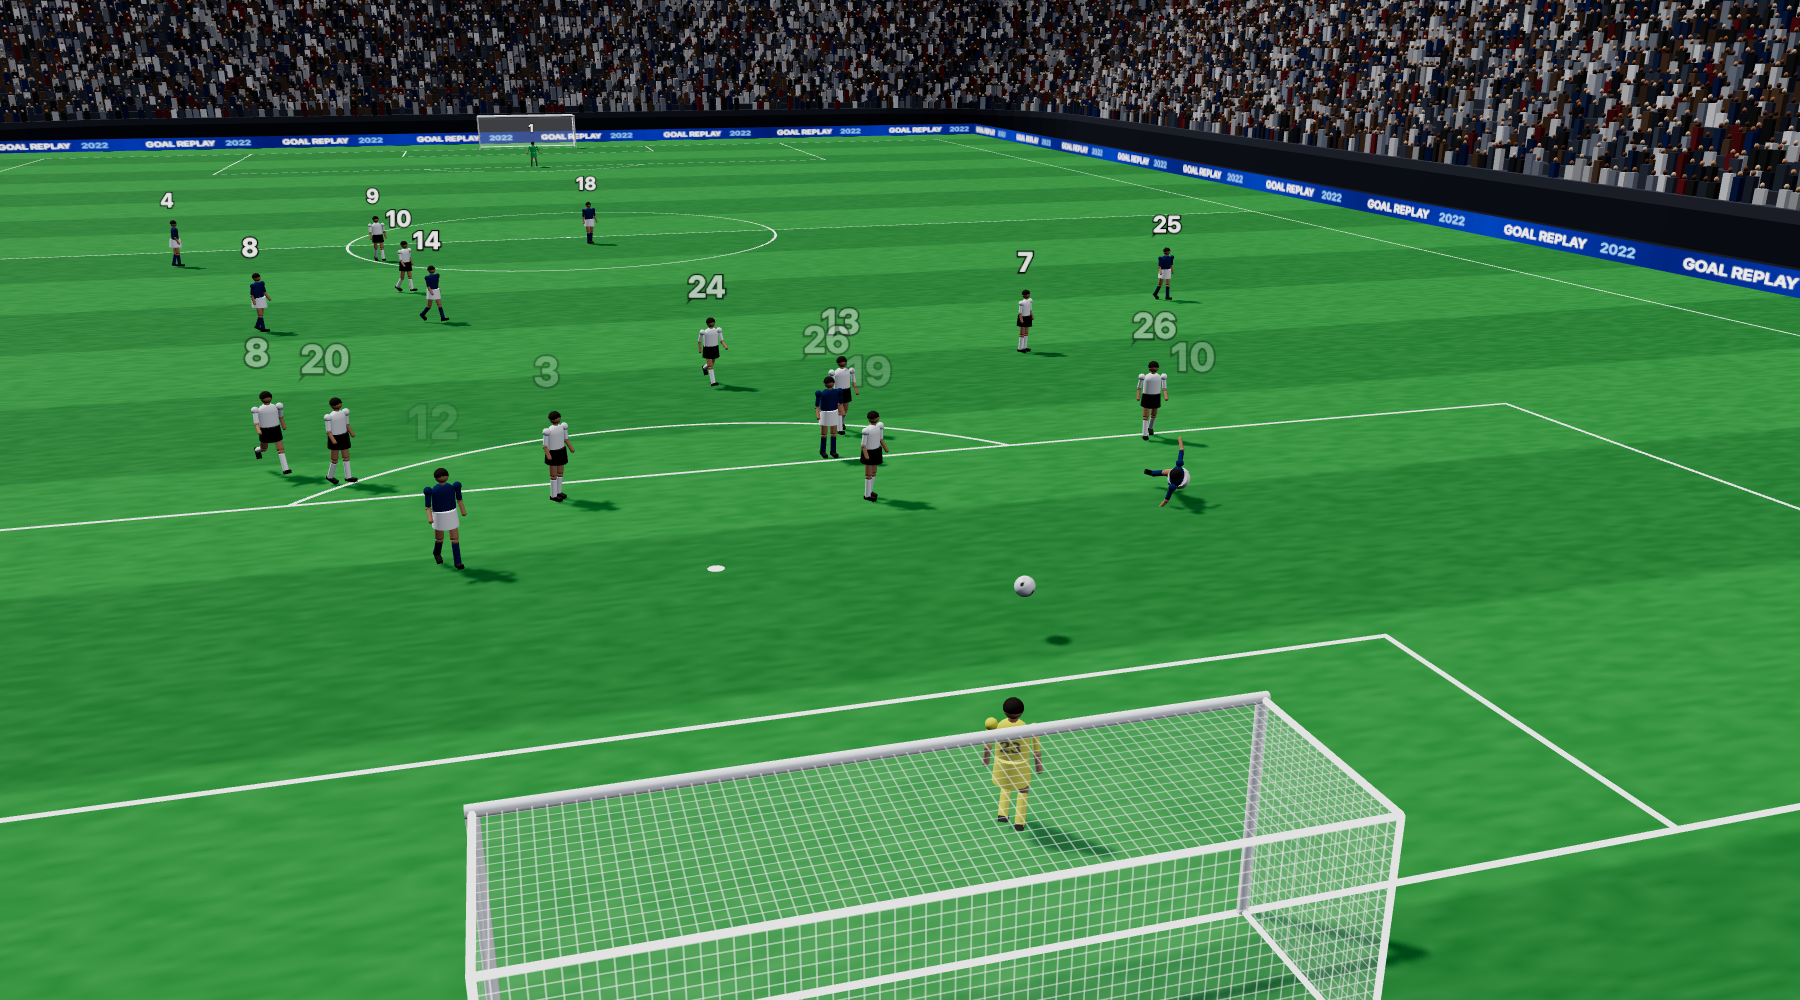
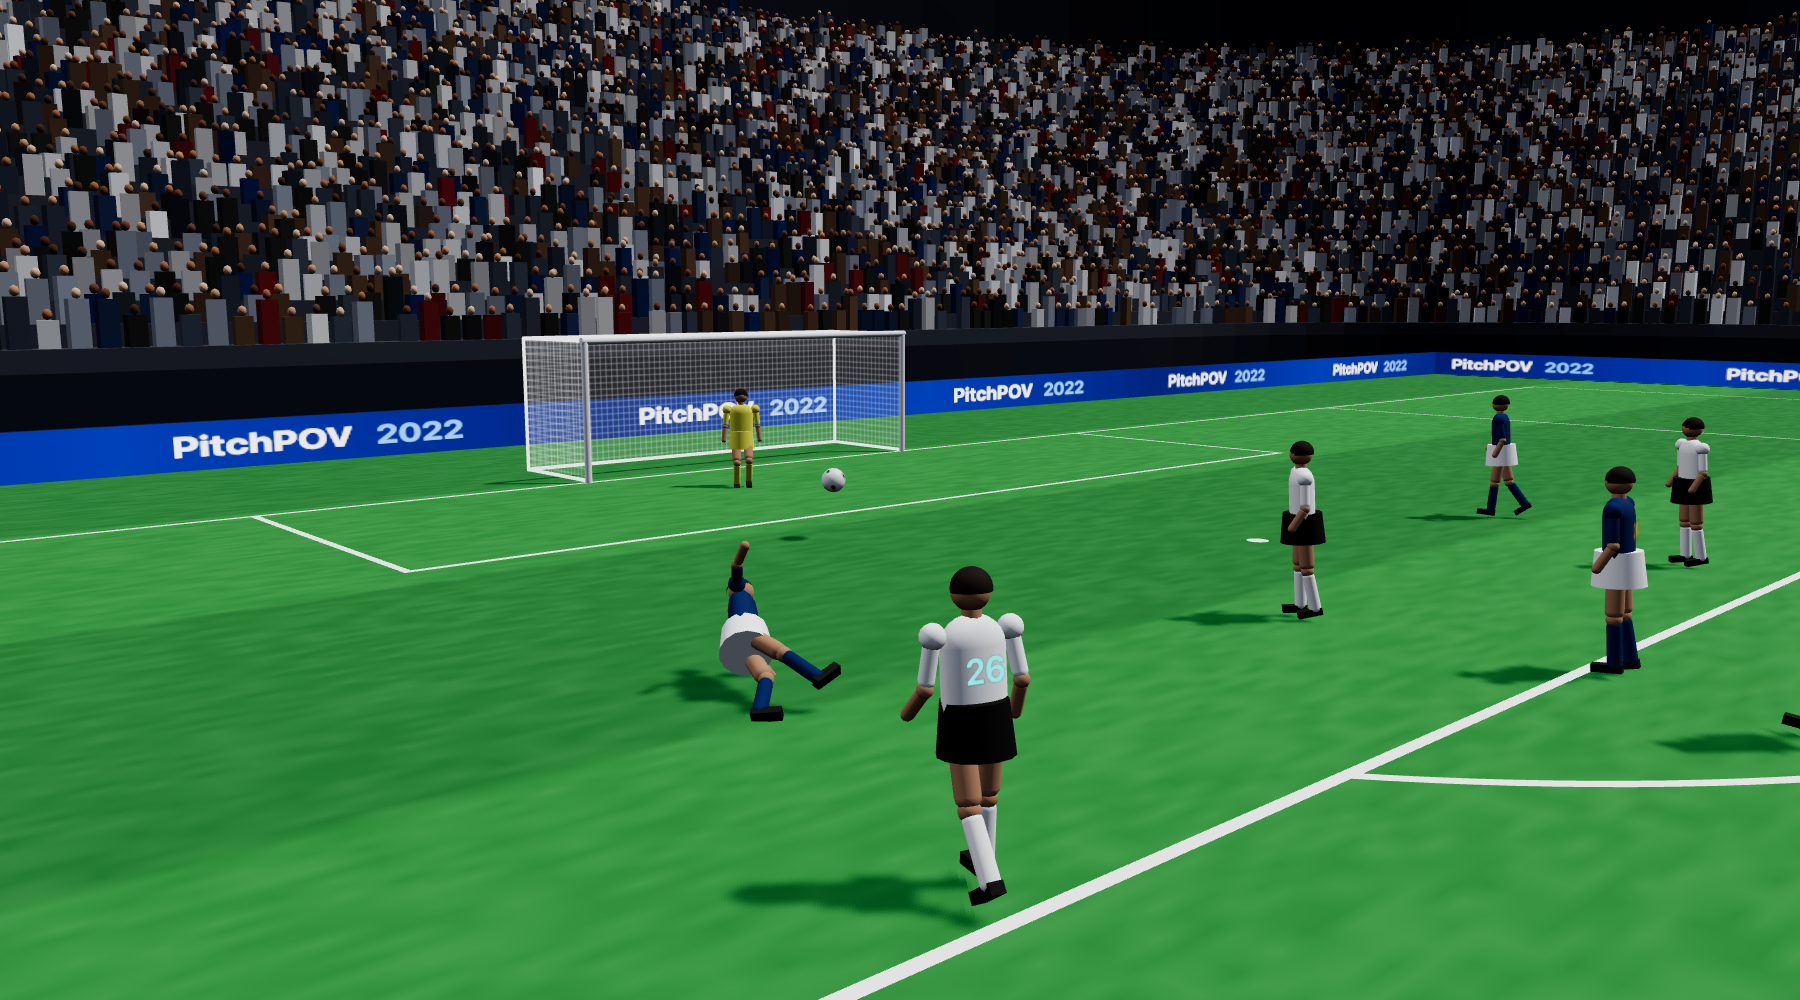
Fix floating labels and board text, behind-the-player demo camera

diff --git a/web/src/Replay.tsx b/web/src/Replay.tsx
@@ -82,7 +82,7 @@ const AIR_SPIN_MAX = 6 // rad/s
 const AIR_SPIN_DECAY = 0.6 // per second
 const ESTIMATED_BALL_OPACITY = 0.55 // ball drawn this faded where its position is estimated
 const BALL_RADIUS = 0.16 // a bit larger than a real ball (0.11) so it reads from afar
-const LABEL_Y = PLAYER_HEIGHT + 0.75
+const LABEL_Y = PLAYER_HEIGHT + 0.55
 const STRIDE_M = 2.4 // metres per full running cycle (two steps)
 const TURN_DAMPING = 10
 const FACE_BALL_MPS = 1.2 // slower than this, a player turns to watch the ball
@@ -171,10 +171,17 @@ function numberTexture(n: number): THREE.CanvasTexture {
 }
 
 // Floating number for reading the play from far away; fades out up close,
-// where the number on the shirt takes over.
-const LABEL_FADE_NEAR = 22
-const LABEL_FADE_FAR = 40
+// where the number on the shirt takes over. The fade is short: a long one left
+// big half-transparent numbers hanging over players 22-40 m away, which read as
+// numbers with nobody under them.
+const LABEL_FADE_NEAR = 24
+const LABEL_FADE_FAR = 30
+const BODY_CENTRE_Y = PLAYER_HEIGHT / 2
+const BODY_RADIUS = PLAYER_HEIGHT / 2
 const labelPos = new THREE.Vector3()
+const body = new THREE.Sphere()
+const frustum = new THREE.Frustum()
+const viewProj = new THREE.Matrix4()
 
 function PlayerLabel({ number }: { number: number }) {
   const texture = useMemo(() => numberTexture(number), [number])
@@ -182,11 +189,17 @@ function PlayerLabel({ number }: { number: number }) {
   const sprite = useRef<THREE.Sprite>(null)
   useFrame(({ camera }) => {
     const sp = sprite.current
-    if (!sp) return
+    const player = sp?.parent
+    if (!sp || !player) return
     const d = camera.position.distanceTo(sp.getWorldPosition(labelPos))
     const k = Math.min(Math.max((d - LABEL_FADE_NEAR) / (LABEL_FADE_FAR - LABEL_FADE_NEAR), 0), 1)
+    // Only over a player who is drawn and on screen: never a number on its own
+    // (his body below the frame edge, or hidden for the player's-eye view).
+    player.getWorldPosition(body.center).y += BODY_CENTRE_Y
+    body.radius = BODY_RADIUS
+    frustum.setFromProjectionMatrix(viewProj.multiplyMatrices(camera.projectionMatrix, camera.matrixWorldInverse))
     sp.material.opacity = k
-    sp.visible = k > 0.01
+    sp.visible = k > 0.01 && player.visible && frustum.intersectsSphere(body)
   })
   return (
     <sprite ref={sprite} position={[0, LABEL_Y, 0]} scale={[1.1, 1.1, 1]}>

diff --git a/web/src/Stadium.tsx b/web/src/Stadium.tsx
@@ -75,16 +75,15 @@ function boardTexture(): THREE.CanvasTexture {
   g.addColorStop(1, '#0b2a6b')
   ctx.fillStyle = g
   ctx.fillRect(0, 0, c.width, c.height)
-  ctx.fillStyle = '#ffffff'
   ctx.font = 'bold 38px system-ui, sans-serif'
   ctx.textBaseline = 'middle'
-  ctx.fillText('GOAL REPLAY', 40, 34)
-  ctx.fillStyle = '#7fb4ff'
-  ctx.fillText('2022', 330, 34)
-  ctx.fillStyle = '#ffffff'
-  ctx.fillText('GOAL REPLAY', 560, 34)
-  ctx.fillStyle = '#7fb4ff'
-  ctx.fillText('2022', 850, 34)
+  const gap = ctx.measureText('PitchPOV').width + 24
+  for (const x of [40, 560]) {
+    ctx.fillStyle = '#ffffff'
+    ctx.fillText('PitchPOV', x, 34)
+    ctx.fillStyle = '#7fb4ff'
+    ctx.fillText('2022', x + gap, 34)
+  }
   const tex = new THREE.CanvasTexture(c)
   tex.colorSpace = THREE.SRGBColorSpace
   tex.wrapS = THREE.RepeatWrapping

diff --git a/web/index.html b/web/index.html
@@ -4,7 +4,7 @@
     <meta charset="UTF-8" />
     <link rel="icon" type="image/svg+xml" href="/favicon.svg" />
     <meta name="viewport" content="width=device-width, initial-scale=1.0" />
-    <title>Goal Replay</title>
+    <title>PitchPOV</title>
   </head>
   <body>
     <div id="root"></div>
